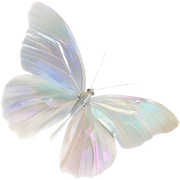
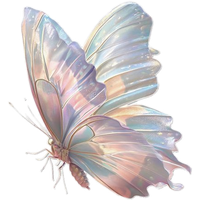
Copy replaced butterfly/sparkle assets into the project
Both had landed in OneDrive instead of the project — copied the real
replacements (butterfly.png 200x200, sparkle.png 128x128) into
assets/img/, and added the missing ?v=2 cache-bust to butterfly.png's
reference (sparkle.png already had one).

diff --git a/js/main.js b/js/main.js
@@ -208,8 +208,8 @@ if (
   const FLIGHT_END_SCALE = 0.6;
 
   const imgSrc = window.location.pathname.includes("/case-studies/")
-    ? "../assets/img/butterfly.png"
-    : "assets/img/butterfly.png";
+    ? "../assets/img/butterfly.png?v=2"
+    : "assets/img/butterfly.png?v=2";
 
   function pageRect(el) {
     const r = el.getBoundingClientRect();
